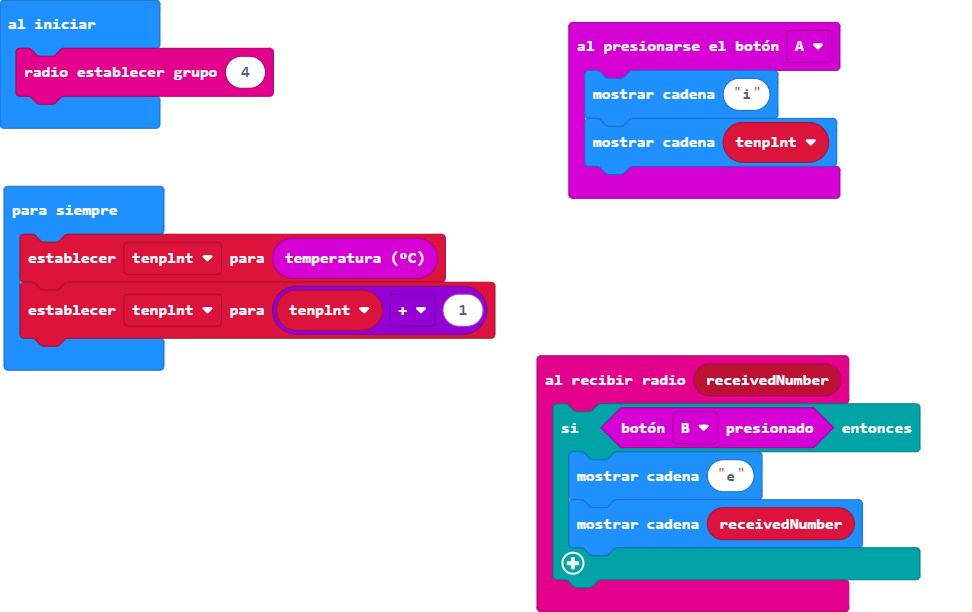
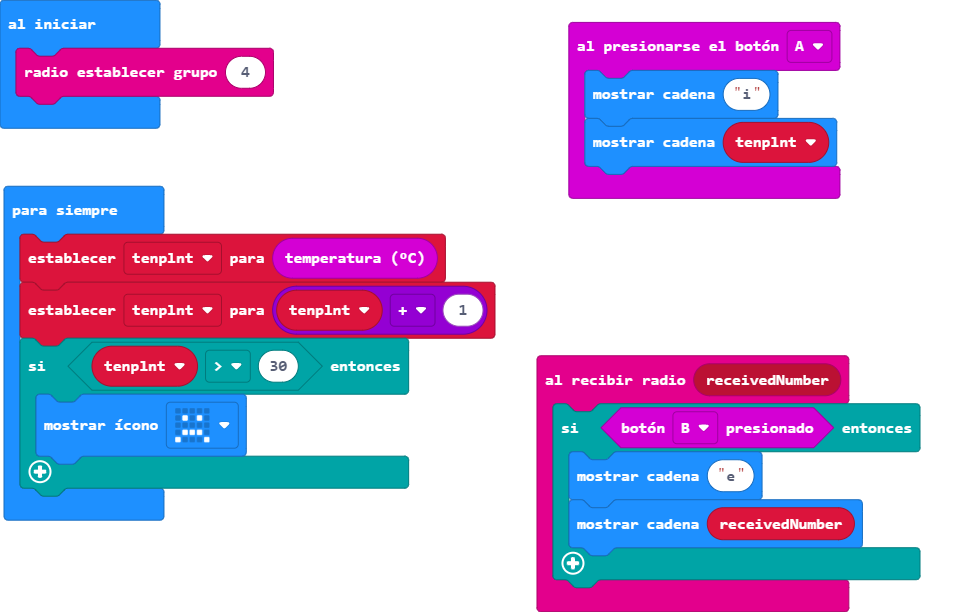
Actualizar main.blocks, main.ts

Changed region(s): [[0.0, 0.5278, 0.4321, 0.8693]]

diff --git a/main.ts b/main.ts
@@ -13,4 +13,7 @@ radio.setGroup(4)
 basic.forever(function () {
     tenplnt = input.temperature()
     tenplnt = tenplnt + 1
+    if (tenplnt > 30) {
+        basic.showIcon(IconNames.Sad)
+    }
 })
